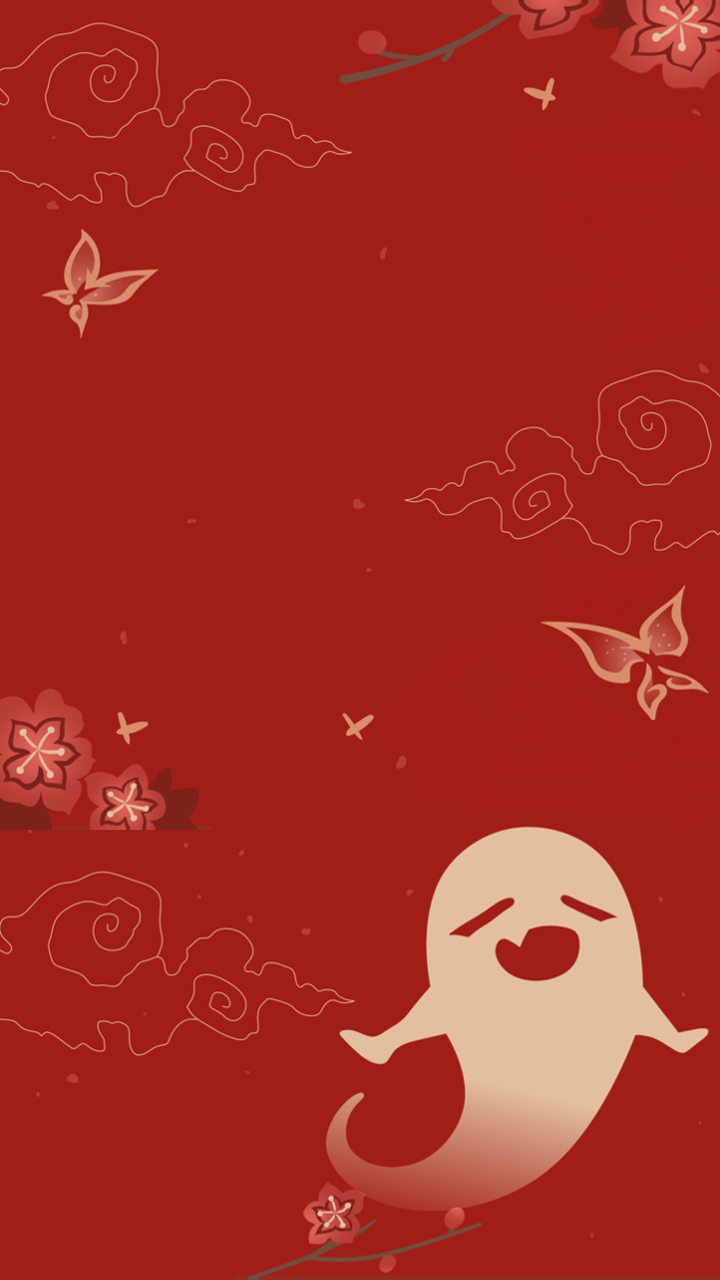
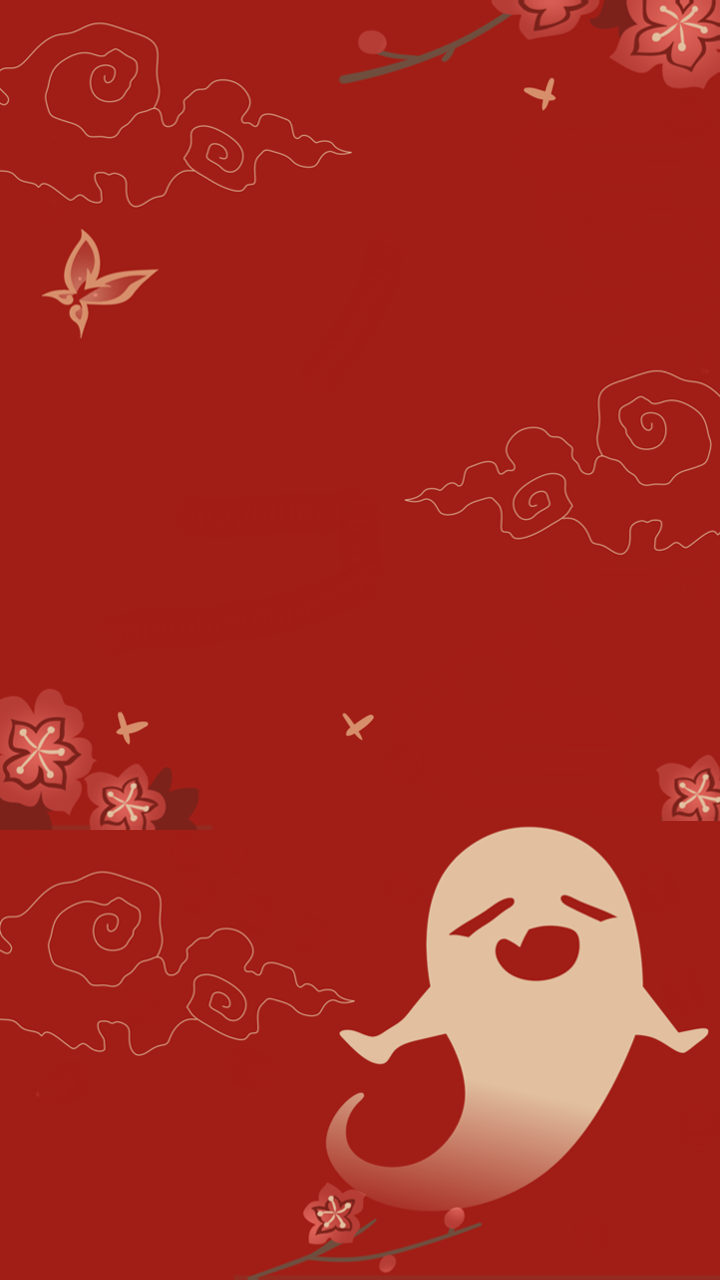
final polish

Changed region(s): [[0.7639, 0.4688, 0.9778, 0.5625], [0.9167, 0.5938, 1.0, 0.6562]]

diff --git a/main.py b/main.py
@@ -44,11 +44,6 @@ base_img = base_img.resize(
 # the drawer thing
 draw = ImageDraw.Draw(base_img)
 
-# add text
-font = ImageFont.truetype("HanyiSentyPagoda Regular.ttf", size=190)
-draw.text((950, 200), "胡", (247, 219, 219, 255), font)
-draw.text((950, 400), "桃", (247, 219, 219, 255), font)
-
 # nudge the left butterfly to the left a bit more and make it smaller
 left_butterfly_img = base_img.crop((50, 400, 290, 610)).resize(
     (120, 115), Image.Resampling.LANCZOS
@@ -60,14 +55,8 @@ right_cloud_img = base_img.crop((720, 650, 1280, 1000)).resize(
     (392, 245), Image.Resampling.LANCZOS
 )
 draw.rectangle(((720, 650), (1280, 1000)), fill=base_img.getpixel((0, 0)))
-base_img.paste(right_cloud_img, (910, 650))
-# make the right butterfly a bit smaller
-right_butterfly_img = base_img.crop((950, 1050, 1280, 1300)).resize(
-    (231, 175), Image.Resampling.LANCZOS
-)
-draw.rectangle(((950, 1050), (1280, 1300)), fill=base_img.getpixel((0, 0)))
-base_img.paste(right_butterfly_img, (1050, 1180))
-# move the butterfly on the bottom left a bit
+base_img.paste(right_cloud_img, (910, 670))
+# hide the butterfly on the bottom left
 draw.rectangle(((200, 1270), (270, 1340)), fill=base_img.getpixel((0, 0)))
 
 # color thingy to test out black background
@@ -98,10 +87,21 @@ for y in range(base_img.height):
             b = max(0, min(255, b+10))
             px[x, y] = (r, g, b, a) # type: ignore
 
+# text shadow
+font = ImageFont.truetype("HanyiSentyPagoda Regular.ttf", size=186)
+draw.text((980, 220), "胡", (212,61,71,50), font)
+draw.text((980, 410), "桃", (212,61,71,50), font)
+# text
+font = ImageFont.truetype("HanyiSentyPagoda Regular.ttf", size=180)
+draw.text((980, 220), "胡", (212,61,71), font)
+draw.text((980, 410), "桃", (212,61,71), font)
+
 # silhouette shadow
-shadow_img = silhouette_img.copy()
-shadow_color = (220, 28, 28)
-blend_ratio = 0.5
+shadow_img = silhouette_img.resize(
+    (silhouette_img.width + 20, silhouette_img.height + 20), resample=Image.Resampling.LANCZOS
+)
+shadow_color = (138, 28, 28)
+blend_ratio = 1
 px = shadow_img.load()
 for y in range(shadow_img.height):
     for x in range(shadow_img.width):
@@ -113,7 +113,7 @@ for y in range(shadow_img.height):
             nb = int(b * (1 - blend_ratio) + shadow_color[2] * blend_ratio)
             px[x, y] = (nr, ng, nb, int(a * 0.8))  # type: ignore
 # add shadow
-base_img.paste(shadow_img, (10, 10), shadow_img)
+base_img.paste(shadow_img, (0, 0), shadow_img)
 
 # add silhouette
 base_img.paste(silhouette_img, (0, 0), silhouette_img)
